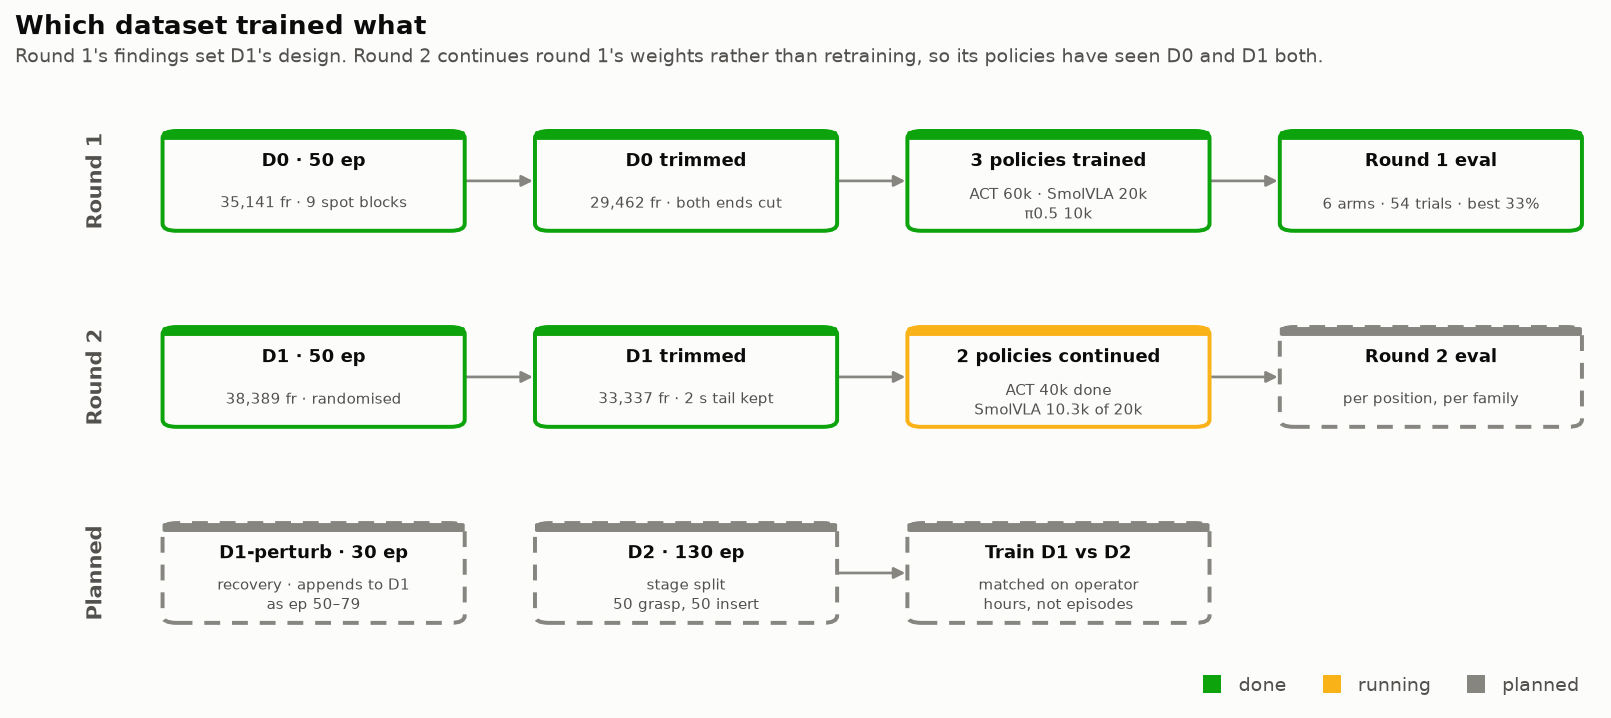
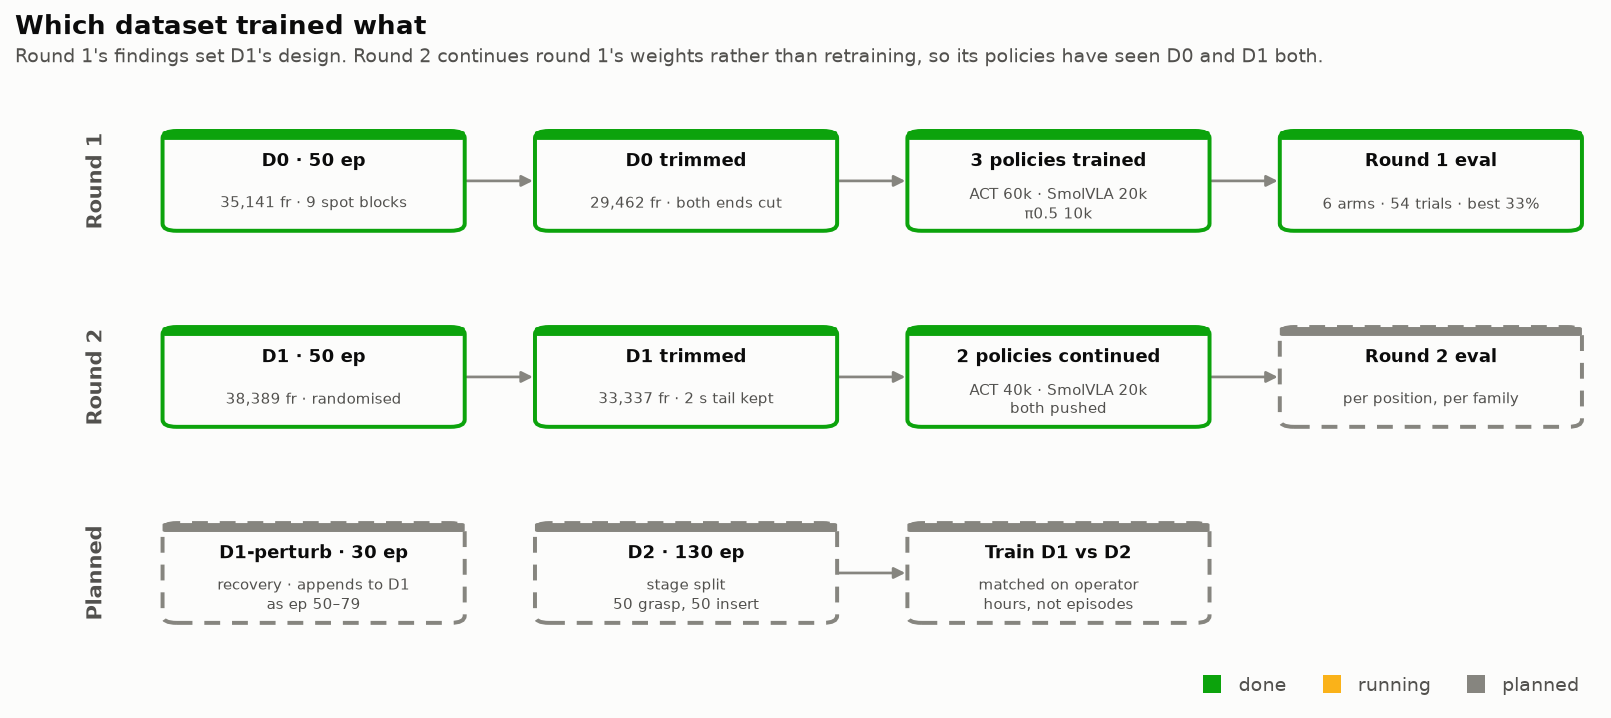
SmolVLA D1 finished at 20k; size the pi0.5 step budget
SmolVLA resumed locally at 23:46 on 10-14 and ended 04:57 on 10-15 - 5 h 10 min
for the last 10,000 steps, 42.53 epochs of D1, train loss 0.061, lr annealed
exactly onto decay_lr 2.5e-6 as 12.6's learning-rate argument intended. Its
end-of-training push went through on its own, so both round-2 repos now hold
four checkpoints and a root model; ACT's needed the manual recovery.

The headline is that round 1's overfitting is gone and the loss minimum is not:

  step     D0 round 1    D1 round 2
  5,000    0.1258 (min)  0.1358 (min)
  10,000   0.1695        0.1367
  15,000   0.2029        0.1386
  20,000   -             0.1416

At 15,000 steps the D0 run sat +61% above its minimum and the D1 run sits
+2.1% - a 29x smaller rise. But it still climbs monotonically, so 5,000 remains
the loss-optimal checkpoint, which answers the question 12.6 left open ("if the
curve is still flat there, SmolVLA's best checkpoint may be its last") with no.

That is precisely the case where this doc has already shown the loss should not
be believed: round 1's SmolVLA minimum was also 5k and the robot preferred 20k
(11.3). Since 11.3a has now validated chunk jerk as the selector that got that
right, the section says to pick the D1 checkpoint by jerk over
checkpoints/{010000,015000,020000} and gives the command. Still confounded as
evidence for the data - warm start and 10x lower peak LR both changed with the
dataset - and the superseded interim 5k/10k table is removed rather than left
[…]

Changed region(s): [[0.5587, 0.5209, 0.7449, 0.6128], [0.5587, 0.429, 0.7759, 0.4903]]

diff --git a/scripts/make_phase07_doc_figs.py b/scripts/make_phase07_doc_figs.py
@@ -301,7 +301,7 @@ def fig_lineage(path: pathlib.Path) -> None:
         ("Round 2", 1.45, [
             ("D1 · 50 ep", "38,389 fr · randomised", DONE),
             ("D1 trimmed", "33,337 fr · 2 s tail kept", DONE),
-            ("2 policies continued", "ACT 40k done\nSmolVLA 10.3k of 20k", ACTIVE),
+            ("2 policies continued", "ACT 40k · SmolVLA 20k\nboth pushed", DONE),
             ("Round 2 eval", "per position, per family", PENDING),
         ]),
         ("Planned", 0.35, [

diff --git a/docs/details/phase07_portable_rig.md b/docs/details/phase07_portable_rig.md
@@ -13,10 +13,12 @@ Written 2026-10-03, last revised 2026-10-14.
 
 ![dataset lineage and status](figs/phase07_lineage.png)
 
-**Where this stands (2026-10-14).** D0 and round 1 are finished and analysed (§10, §11). D1 is
-recorded, verified and trimmed (§12.1–§12.5). Round-2 training is the live item: **ACT finished its
-40,000 steps on 2026-10-14**; **SmolVLA is at ~10.3k of 20,000** and resumes when the GPU is free
-(§12.6). Round-2 rollouts, D1-perturb (§12.3) and D2 (§12.4) are not started.
+**Where this stands (2026-10-15).** D0 and round 1 are finished and analysed (§10, §11). D1 is
+recorded, verified and trimmed (§12.1–§12.5), and **round-2 training is complete** — ACT at 40,000
+steps and SmolVLA at 20,000, both pushed (§12.6). The two offline metrics are measured: **chunk jerk
+reproduces the robot's ordering, per-stage loss does not** (§11.3a). **Next: pick SmolVLA's D1
+checkpoint by jerk rather than by loss, then run the round-2 rollouts.** π0.5 is gated on §12.7's
+probe; D1-perturb (§12.3) and D2 (§12.4) are not started.
 
 ---
 
@@ -1019,7 +1021,7 @@ not on measurement.**
 | 1 | **Pre-register the divergence prediction** (§12.1) | ✅ committed 2026-10-12, before collection |
 | 2 | **D1: 50 full-task episodes, continuously randomised** (§12.2) | ✅ 2026-10-13 · 50 ep / 38,389 fr · **P4 PASS** |
 | 3 | **Processing: head trim + 2 s tail cap** (§12.5) | ✅ 33,337 fr (87%), 35.7 min · detector rewritten |
-| 4 | **Continue ACT and SmolVLA from the round-1 checkpoints** (§12.6) | ◐ **ACT done 10-14** · SmolVLA at ~10.3k of 20k |
+| 4 | **Continue ACT and SmolVLA from the round-1 checkpoints** (§12.6) | ✅ **both done** — ACT 40k 10-14, SmolVLA 20k 10-15 · both on the Hub |
 | 5 | **Two offline metrics: chunk jerk and per-stage held-out loss** (§11.3a, §12.5) | ✅ 2026-10-14, 5 of 6 arms · **jerk 2.39× confirmed · per-stage prediction wrong** |
 | 6 | **π0.5 frozen-feature probe** (§12.7) | — ~30 min, no training |
 | 7 | **D1-perturb: ~30 perturbed / recovery episodes** (§12.3) | — ~1.5 h |
@@ -1443,9 +1445,12 @@ the final confirmation that it was never a placement outlier.
 | New-data coverage | 320,000 samples · **10.6 epochs** of D1 | 1,280,000 samples · 42.5 epochs |
 | Learning rate | **1e-5, unchanged** | **1e-5 — lowered 10×** (see below) |
 | Checkpoints | every 10k → 4 | every 5k → 4 |
-| Measured | **5.4 it/s · 3.79 GiB peak** | **1.83 s/step · 14.32 GiB peak** |
-| Runtime | **2 h 13 min — done 2026-10-14** | **~5.0 h left** of the 20,000 (at 10.3k now) |
+| Measured | **5.4 it/s · 3.79 GiB peak** | **1.82 s/step · 14.59 GiB peak** |
+| Runtime | **2 h 13 min — done 2026-10-14** | **5 h 10 min for the last 10k — done 2026-10-15** |
 | Output repo | `act_tray_cylinder_s1000_d1` | `smolvla_tray_cylinder_s1000_d1` |
+
+**Both finished and both are complete on the Hub** — 4 checkpoints plus the root model each. SmolVLA's
+end-of-training push went through on its own; ACT's needed the manual recovery below.
 
 > **What the warm start costs.** §12.1 pre-registered P1–P3 against *fresh* training on D1. Continuing
 > instead means the round-2 policy has seen D0 **and** D1, so a change in the ACT−SmolVLA gap can no
@@ -1538,7 +1543,39 @@ even though the root holds nothing but `.gitattributes`. Observed: `checkpoints/
 same step**. It resumes into the **same wandb run** (`n20v7gxh`), so the curve stays continuous across
 the machine change.
 
-**Two things the partial run already settles.**
+**Finished 2026-10-15 at 04:57**, 5 h 10 min for the last 10,000 steps, ending at **42.53 epochs of
+D1**, train loss 0.061, `lr: 2.5e-6` — the cosine annealed exactly onto `decay_lr`, which is what
+§12.6's learning-rate argument was for. `Model pushed to ...smolvla_tray_cylinder_s1000_d1`.
+
+**The overfitting that defined round 1 is gone — and the loss minimum did not move.**
+
+| step | D0, round 1 (fresh, lr 1e-4) | **D1, round 2 (warm, lr 1e-5)** |
+|---|---|---|
+| 5,000 | **0.1258** (min) | **0.1358** (min) |
+| 10,000 | 0.1695 | 0.1367 |
+| 15,000 | 0.2029 | 0.1386 |
+| 20,000 | — | 0.1416 |
+| **5k → 15k** | **+61%** | **+2.1%** |
+
+At matched steps the rise is **29× smaller**. But the curve still climbs monotonically, so **5,000 is
+still the loss-optimal checkpoint** — the answer to the question this section left open ("if the curve
+is still flat there, SmolVLA's best checkpoint may be its last for the first time") is **no**: nearly
+flat, but not flat enough to move the minimum.
+
+**That is exactly the case where the loss should not be believed.** Round 1's SmolVLA minimum was also
+5k, and the robot preferred 20k (§11.3). The metric that got that right is now validated
+([§11.3a](#113a--measuring-chunk-smoothness-offline--measured-2026-10-14)), so **pick the D1 checkpoint
+by chunk jerk, not by this curve** — 11 min per checkpoint over `checkpoints/{010000,015000,020000}`:
+
+```bash
+cd /home/bj/Documents/bingjian/robot_learning/smolvla_so101 && python scripts/eval_checkpoint_metrics.py --output-dir outputs/train/smolvla_tray_cylinder_s1000_d1_resumed --dataset HALDijkstraaa/so101_tray_cylinder_varied_20261013_082911_trimmed
+```
+
+**Still confounded as evidence for the data.** The warm start and the 10× lower peak LR each reduce
+overfitting independently, and both changed at the same time as the dataset. Only the fresh-on-D1 arm
+§12.1 originally specified would separate them.
+
+**Two things the run settles about the hardware.**
 
 **SmolVLA fits a 16 GB card after all** — `mem_gb: 14.68` peak at batch 64, against the **16.5 GiB**
 this doc previously quoted from round 1. That earlier figure is what sent SmolVLA to Colab; it was
@@ -1546,20 +1583,6 @@ wrong for this configuration. Locally it measures **14.32 GiB of 15.92**, ~1.2 G
 but thin enough that fragmentation matters, hence `PYTORCH_CUDA_ALLOC_CONF=expandable_segments:True`
 and an otherwise idle GPU. Throughput is **1.83 s/step against the L4's 2.00**, so the 5080 is ~9%
 faster.
-
-**The held-out loss is flat where round 1's rose steeply:**
-
-| step | D0, round 1 (fresh, lr 1e-4) | **D1, round 2 (warm, lr 1e-5)** |
-|---|---|---|
-| 5,000 | 0.1258 | 0.1358 |
-| 10,000 | 0.1695 | **0.1367** |
-| change | **+34.7%** | **+0.7%** |
-
-A near-total suppression of the overfitting that defined round 1's SmolVLA — and **confounded two
-ways**, so not yet evidence for the data. The warm start and the 10× lower peak LR each independently
-reduce overfitting, and both changed at the same time as the dataset. What would separate them is the
-fresh-on-D1 arm §12.1 originally specified. Worth watching to 20k regardless: if the curve is still
-flat there, SmolVLA's best checkpoint may be its last for the first time.
 
 > **`ALL_PROXY=socks://...` breaks every Hub call — unset it.** GNOME's network proxy is set to
 > *manual* with a SOCKS host at `127.0.0.1:7897`, and the desktop exports that as
@@ -1651,6 +1674,40 @@ linear regression from features to the cylinder's position (recoverable from the
 | They do not | **No amount of action-expert training can fix the reach** — the information is not in the representation. Unfreeze the encoder, or drop π0.5 for this phase |
 
 Either way it converts "π0.5 needs more steps" from an assumption into a decision.
+
+### What "more steps" would actually cost
+
+The gate matters because the bill is large. π0.5 trains **action-expert-only** — 693 M trainable of
+4.14 B, `freeze_vision_encoder=true`, `gradient_checkpointing=true` — at **batch 16**, and what has run
+is **10,000 steps = 160,000 samples = 6.0 epochs** of D0's 26,721-frame train split.
+
+| | π0.5, as run | SmolVLA, both rounds | **π0.5 matched to SmolVLA** |
+|---|---|---|---|
+| Batch × steps | 16 × 10,000 | 64 × 20,000 | 16 × **80,000** |
+| Samples | 160,000 | **1,280,000** | **1,280,000** |
+| Epochs | 6.0 of D0 | 47.9 of D0 · 42.53 of D1 | same as whichever set it trains on |
+| Wall clock @ 2.06 s/step | 5.7 h | — | **~46 h** (~40 h still to go) |
+| Peak VRAM | **18.2 GiB** of an A100's 40 | 14.6 of 15.9 | unchanged — batch is unchanged |
+
+**80,000 steps, i.e. 70,000 more.** The number is the same whichever SmolVLA run you match to, because
+both moved exactly 1,280,000 samples.
+
+Three things that follow:
+
+- **It cannot run on the 5080.** 18.2 GiB at batch 16 — already *with* gradient checkpointing — against
+  15.92 GiB available. π0.5 stays on an A100-class card.
+- **A smaller batch does not rescue that.** The run is compute-bound, not data-bound
+  (`updt_s: 1.949` against `data_s: 0.442`), so halving the batch roughly halves the step time and
+  doubles the steps needed for the same samples — the wall clock barely moves while the memory saving
+  is modest.
+- **Disk needs planning.** 11.55 GB per checkpoint × 16 at `save_freq=5000` is **185 GB**. Reap as you
+  go, as the round-1 notebook already does.
+
+**So the probe above is worth its 30 minutes before committing ~40 h of A100 time** — and note it is
+not only a budget question. §11.3a measured π0.5 5k at the **lowest held-out loss and a lower jerk than
+either SmolVLA arm**, yet 0/9 excluding luck. Neither offline metric sees whatever is wrong, which is
+what §11.4 predicts if the failure is in the frozen representation. If it is, 80,000 steps buys
+nothing.
 
 ## 12.8 — Deferred, and why each is safe to defer
 
